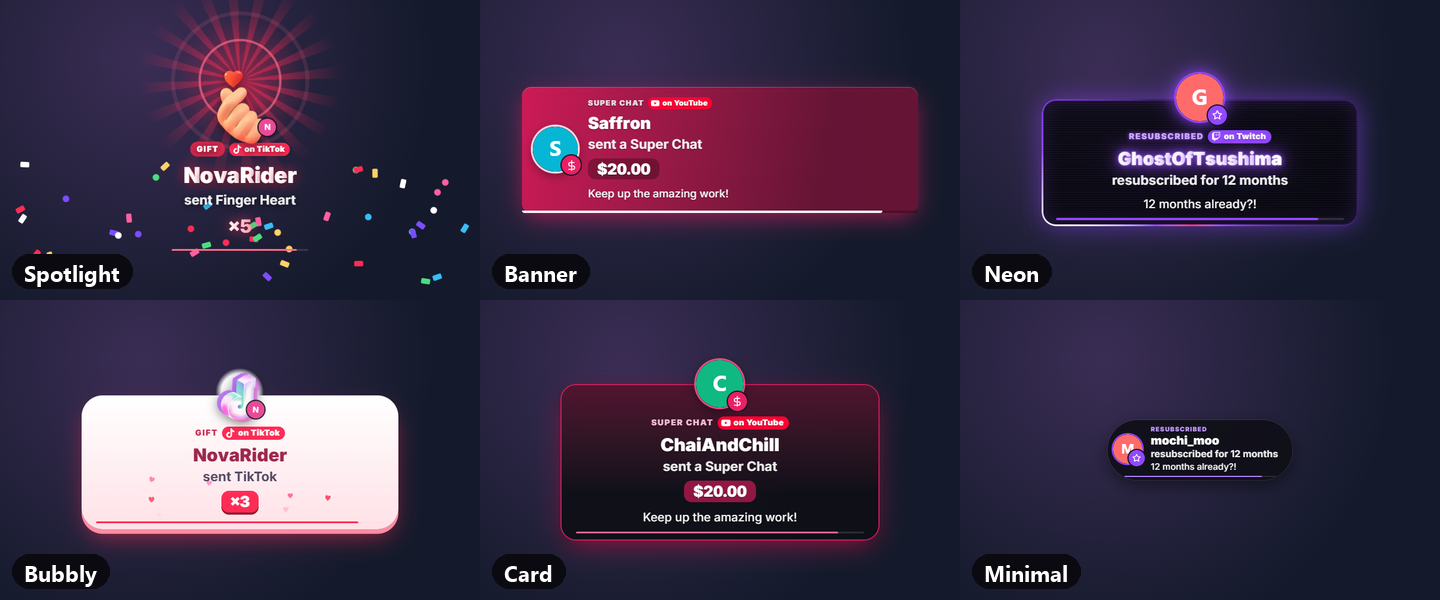
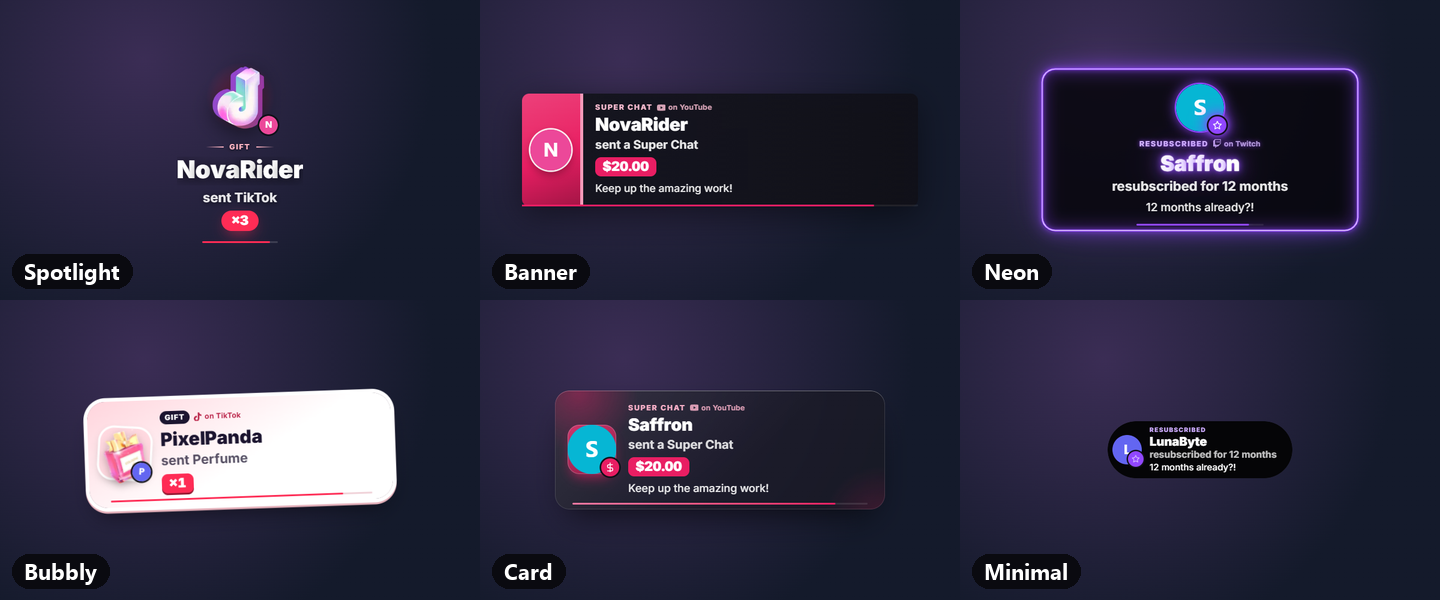
Show the new alert styles in the README

diff --git a/README.md b/README.md
@@ -52,7 +52,7 @@ Multistreaming means your viewers chat in five different places. Mergio reads al
   - **In the chat** as a calm line with the gift picture, so they don't take over your chat
   - **On their own overlay**: a separate browser source you can put anywhere on your scene, showing one big animated alert at a time (**NEW SUBSCRIBER · on Twitch**, **GIFT · on TikTok**…)
   - **Or both**
-- ✨ **Six alert styles:** Spotlight (light rays and confetti), Banner, Neon, Bubbly, Card and Minimal, picked from tiles that play a live preview, with an optional chime.
+- ✨ **Six alert styles:** Spotlight, a TV-style Banner, Neon, a Bubbly sticker, a frosted-glass Card and a Minimal pill, each with its own entrance, picked from tiles that play a live preview, with an optional chime.
 - 🎉 **Every alert type:**
   - TikTok gifts, follows, subscriptions, joins, likes and shares
   - Twitch Bits with animated cheermotes, subs, gift subs, raids, Hype Chats, announcements, Power-ups and watch streaks
@@ -211,14 +211,14 @@ If you pick an overlay, choose an **alert style**. Each tile plays a little prev
 
 | Style | What it looks like |
 |---|---|
-| **Spotlight** (default) | The picture or gift, big, with spinning light rays, pulsing rings and a confetti shower |
-| **Banner** | A ribbon that sweeps in from the side with a shine running across it |
-| **Neon** | A glowing sign that flickers on, with a light running round its edge |
-| **Bubbly** | A soft, bouncy bubble with floating hearts |
-| **Card** | The classic card with the picture on top |
-| **Minimal** | A small, quiet pill |
+| **Spotlight** (default) | The picture or gift, big and centred, with a light circling it and the name rising into place. No box, so it sits right on your game |
+| **Banner** | A TV-style lower third: a colour block wipes in, the panel unrolls from it and the text slides in |
+| **Neon** | A dark sign whose glowing tube draws itself round the edge before the name switches on |
+| **Bubbly** | A bright, die-cut sticker that slaps onto the scene, then catches the light |
+| **Card** | Frosted glass with a soft glow of the platform's colour, tilting up into place |
+| **Minimal** | A small black pill that grows open from the middle, like a phone's live activity, and shrinks away |
 
-In every style the viewer's name animates in letter by letter, a thin bar shows how long the alert stays, and gift combos count up live. Below the styles you can set how long each alert stays, its size, where it sits in its box, whether it shows the viewer's picture and message, and an optional **chime** (made by Mergio, no sound files needed) with its volume.
+Every style uses the colour of the platform or event, a thin bar shows how long the alert stays, and gift combos count up live. There's no confetti or other clutter, so alerts stay clean on stream. Below the styles you can set how long each alert stays, its size, where it sits in its box, whether it shows the viewer's picture and message, and an optional **chime** (made by Mergio, no sound files needed) with its volume.
 
 <div align="center"><img src="docs/guide/10-alert-styles.png" alt="The six alert styles: Spotlight, Banner, Neon, Bubbly, Card and Minimal" width="820"></div>
 
@@ -299,7 +299,7 @@ http://localhost:8787/overlay?fontSize=28&theme=neon&align=right&maxMessages=12
 
 Useful options: `theme` (glass, neon, minimal, soft, retro), `fontSize`, `font`, `align` (left/right), `scrollDirection` (normal/reversed), `fadeMessages` (true/false) with `hideAfter` (seconds), `maxMessages`, `showAvatar`, `showPlatform`, `useChatBubbles`, `inlineChat`, `groupStyle` (tuck, merge), `animation` (slide, pop, fade, none).
 
-The alerts overlay works the same way: `http://localhost:8787/alerts?size=1.3&position=top&duration=8` (`style` spotlight/banner/neon/bubble/card/toast, `size`, `position` top/center/bottom, `duration` in seconds, `animation` pop/slide/fade for Card and Minimal, `showAvatar`, `showMessage`, `sound`, `volume`).
+The alerts overlay works the same way: `http://localhost:8787/alerts?size=1.3&position=top&duration=8` (`style` spotlight/banner/neon/bubble/card/toast, `size`, `position` top/center/bottom, `duration` in seconds, `animation` pop/slide/fade for Card, `showAvatar`, `showMessage`, `sound`, `volume`).
 
 ## Platform notes
 
